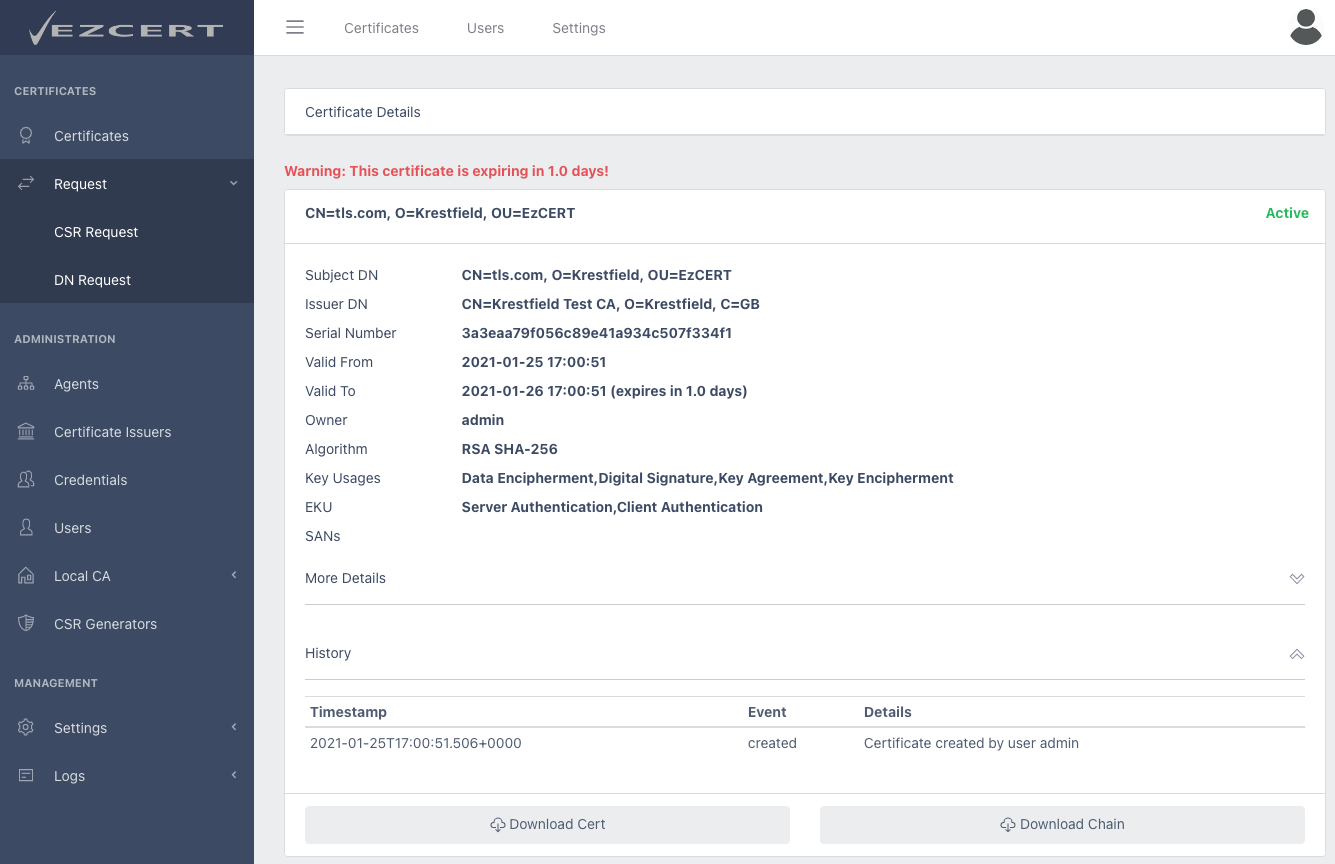
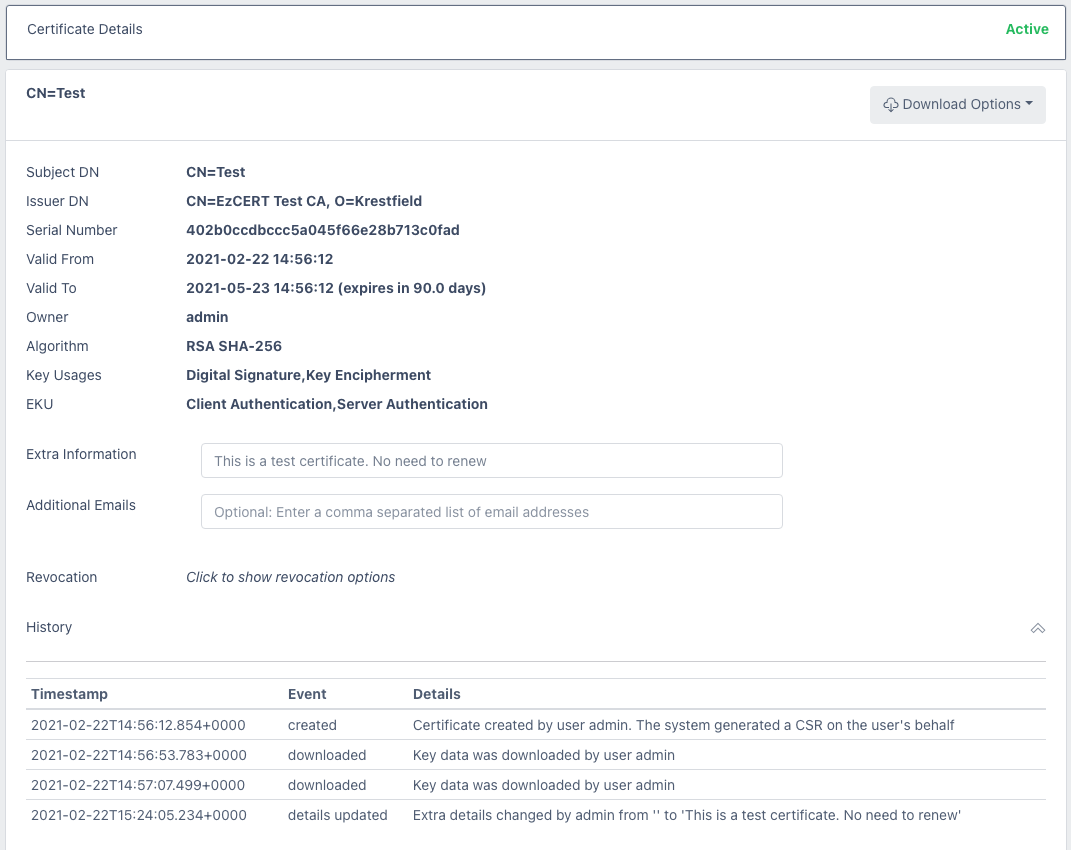
Screen shots updated

diff --git a/ezcert/screen_shots.md b/ezcert/screen_shots.md
@@ -12,34 +12,66 @@ nav_order: 1
 
 ### Certificate Search
 
-<img src="./images/cert_search_ss.png" alt="image-20210125165745982" style="zoom:67%;" />
+A wide range of search options and the ability to save specific searches
+
+<img src=".\images\cert_search_ss.png" alt="image-20210222090831681" style="zoom:67%;" />
 
 
 
 ### Certificate Details
 
-<img src="./images/cert_details2_ss.png" alt="image-20210125170255708" style="zoom:67%;" />
+View certificate details and history
+
+<img src=".\images\cert_details2_ss.png" alt="image-20210222152427775" style="zoom:67%;" />
+
 
 
 ### Request a Certificate with a DN
-<img src="./images/cert_details_ss.png" alt="image-20210125165944192" style="zoom:67%;" />
 
-<img src="./images/cert_issued_ss.png" alt="image-20210125170116781" style="zoom:67%;" />
+Request a certificate by providing a Distinguished Name
+
+<img src=".\images\dn_request_ss.png" alt="image-20210222091029876" style="zoom:67%;" />
+
 
 
 ### Request a Certificate from a CSR
 
-<img src="./images/cert_req_csr_ss.png" alt="image-20210125170209272" style="zoom:67%;" />
+Request a certificate from a Certificate Signing Request
+
+<img src=".\images\cert_req_csr_ss.png" alt="image-20210222091553114" style="zoom:67%;" />
+
+
+
+### Download Options
+
+If the system generates the keys (as when requesting using a DN), the certificate and keys are available in several formats, including JKS and PKCS#12
+
+<img src=".\images\download_options_ss.png" alt="image-20210222091304432" style="zoom:67%;" />
+
+
+
+### Teams
+
+Permissions on specific Certificate Issuers are managed via Teams
+
+<img src=".\images\teams_ss.png" alt="image-20210222091845017" style="zoom:67%;" />
+
+<img src=".\images\teams2_ss.png" alt="image-20210222091923483" style="zoom:67%;" />
 
 
 
 ### Certificate Issuers
 
-<img src="./images/cert_issuers_ss.png" alt="image-20210125170510873" style="zoom:67%;" />
+Support for multiple issuers from the same system, including Microsoft ADCS and PrimeKey EJBCA
+
+<img src=".\images\cert_issuers_ss.png" alt="image-20210222151503850" style="zoom:67%;" />
 
 
 
 ### Email Settings
 
-<img src="./images/email_settings_ss.png" alt="image-20210125170443142" style="zoom:67%;" />
+Emails can be sent on issue and also as reminders of upcoming expiry
 
+<img src=".\images\email_settings_ss.png" alt="image-20210222151615899" style="zoom:67%;" />
+
+Contact [support@krestfield.com] for more details
